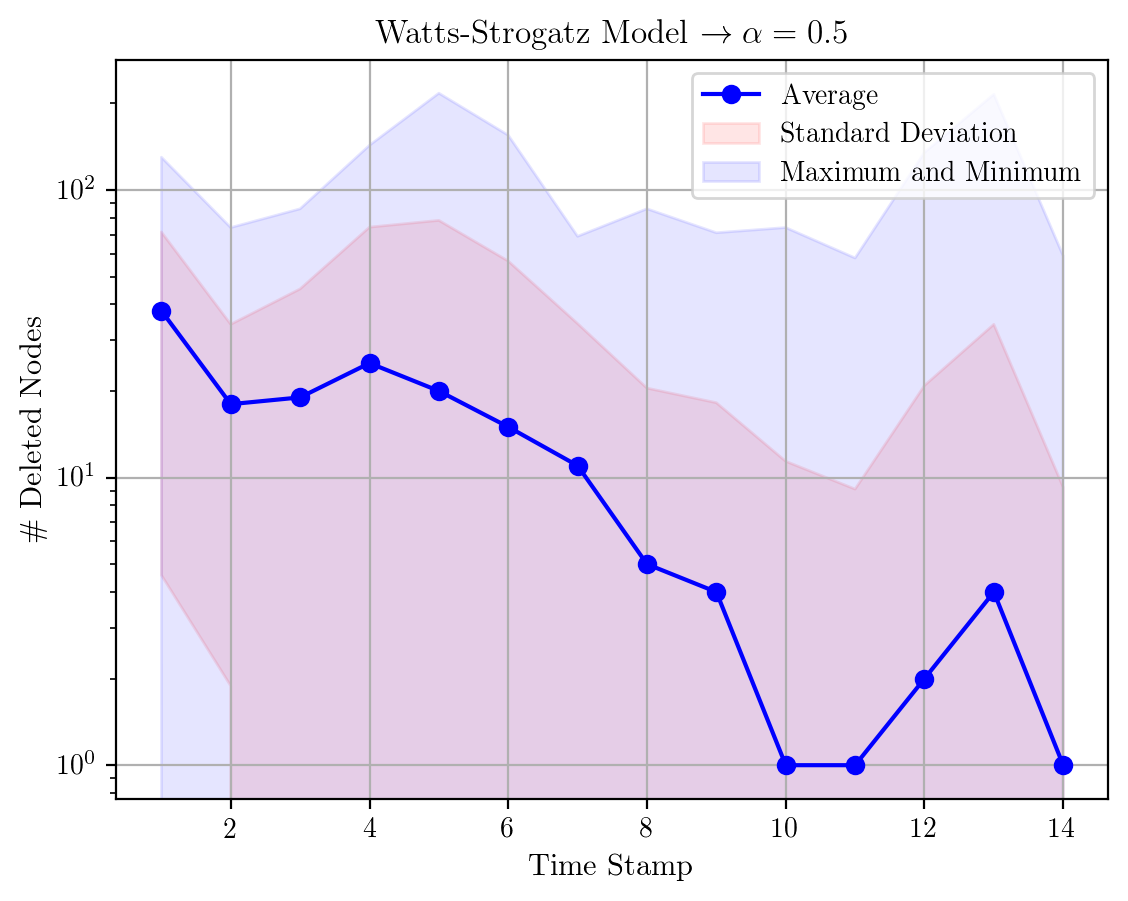
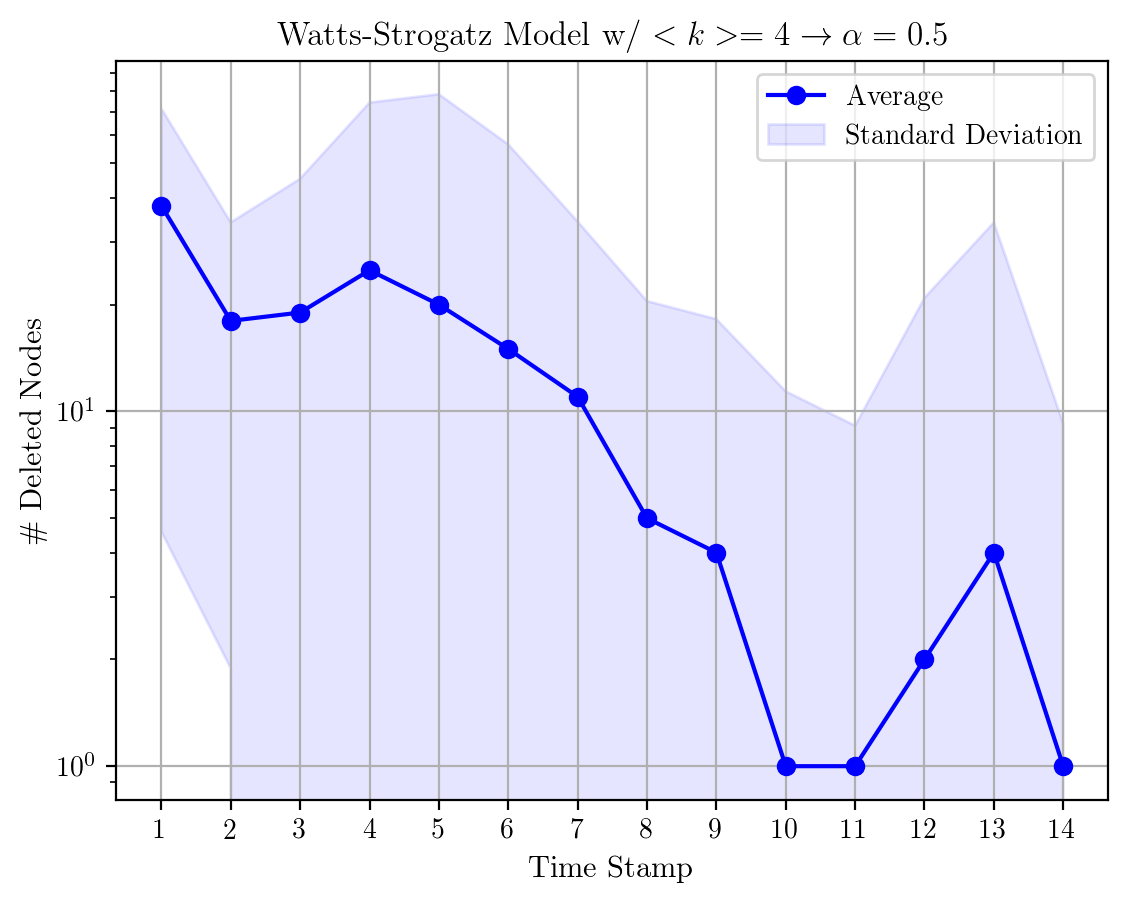
Iterations per alpha

diff --git a/Plots/iterations.py b/Plots/iterations.py
@@ -1,0 +1,220 @@
+import networkx as nx
+import numpy as np
+import matplotlib.pyplot as plt
+
+model = 0
+while True:
+	try:
+		model = int(input("""Choose a model:
+		0 - Barabasi Albert Model w/ <k> = 4;
+		1 - DMS Minimal Model w/ <k> = 4;
+		2 - Power Law Model w/ <k> = 2;
+		3 - Power Law Model w/ <k> = 4;
+		4 - Random Graph Model w/ <k> = 4;
+		5 - Watts-Strogatz Model w/ <k> = 4;
+		6 - Power Grid Network;
+		7 - Internet Network):\n>>> """))       
+	except ValueError:
+		print("Please an integer between 0 and 7:")
+		continue
+	else:
+		if model >=0 or model <=7:
+			break
+		else:
+			continue
+
+if model == 0:
+	folder = "Data/BA/"
+elif model == 1:
+	folder = "Data/DMS/"
+elif model == 2:
+	folder = "Data/PL2/"
+elif model == 3:
+	folder = "Data/PL4/"
+elif model == 4:
+	folder = "Data/RAND/"
+elif model == 5:
+	folder = "Data/WS/"
+elif model == 6:
+	folder = "Data/PG/"
+else:
+	folder = "Data/INT/"
+	
+file = "data_0.txt"
+
+with open(folder + file) as f:
+	lines = f.read().splitlines()
+
+if model == 2:
+	N = [int(i) for i in lines[0].split()[1:]]
+else:
+	N = [int(lines[0].split()[1]) for i in range(10)]
+
+N_GRAPHS = int(lines[1].split()[1])
+IT = int(lines[2].split()[1])
+criteria = int(lines[3].split()[1])
+alphas = lines[4].split()[1:12]
+
+a_it = np.zeros(len(alphas), dtype=int)
+iterations_avg_rand = np.zeros(len(alphas))
+iterations_var_rand = np.zeros(len(alphas))
+iterations_rand = np.zeros((len(alphas), IT*N_GRAPHS))
+
+l_it = 0
+for net in range(N_GRAPHS):
+	for a in range(len(alphas)):
+		for it in range(IT):
+			iterations_rand[a][a_it[a]] = float(lines[6+6*l_it].split()[1])
+			l_it += 1
+			a_it[a] += 1
+
+for a in range(len(alphas)):
+	iterations_avg_rand[a] = np.mean(iterations_rand[a])
+	iterations_var_rand[a] = np.var(iterations_rand[a])
+
+file = "data_1.txt"
+
+with open(folder + file) as f:
+	lines = f.read().splitlines()
+
+if model == 2:
+	N = [int(i) for i in lines[0].split()[1:]]
+else:
+	N = [int(lines[0].split()[1]) for i in range(10)]
+
+N_GRAPHS = int(lines[1].split()[1])
+IT = int(lines[2].split()[1])
+criteria = int(lines[3].split()[1])
+alphas = lines[4].split()[1:12]
+
+a_it = np.zeros(len(alphas), dtype=int)
+iterations_avg_bc = np.zeros(len(alphas))
+iterations_var_bc = np.zeros(len(alphas))
+iterations_bc = np.zeros((len(alphas), IT*N_GRAPHS))
+
+l_it = 0
+for net in range(N_GRAPHS):
+	for a in range(len(alphas)):
+		for it in range(IT):
+			iterations_bc[a][a_it[a]] = float(lines[6+6*l_it].split()[1])
+			l_it += 1
+			a_it[a] += 1
+
+for a in range(len(alphas)):
+	iterations_avg_bc[a] = np.mean(iterations_bc[a])
+	iterations_var_bc[a] = np.var(iterations_bc[a])
+
+file = "data_2.txt"
+
+with open(folder + file) as f:
+	lines = f.read().splitlines()
+
+if model == 2:
+	N = [int(i) for i in lines[0].split()[1:]]
+else:
+	N = [int(lines[0].split()[1]) for i in range(10)]
+
+N_GRAPHS = int(lines[1].split()[1])
+IT = int(lines[2].split()[1])
+criteria = int(lines[3].split()[1])
+alphas = lines[4].split()[1:12]
+
+a_it = np.zeros(len(alphas), dtype=int)
+iterations_avg_dg = np.zeros(len(alphas))
+iterations_var_dg = np.zeros(len(alphas))
+iterations_dg = np.zeros((len(alphas), IT*N_GRAPHS))
+
+l_it = 0
+for net in range(N_GRAPHS):
+	for a in range(len(alphas)):
+		for it in range(IT):
+			iterations_dg[a][a_it[a]] = float(lines[6+6*l_it].split()[1])
+			l_it += 1
+			a_it[a] += 1
+
+for a in range(len(alphas)):
+	iterations_avg_dg[a] = np.mean(iterations_dg[a])
+	iterations_var_dg[a] = np.var(iterations_dg[a])
+
+file = "data_3.txt"
+
+with open(folder + file) as f:
+	lines = f.read().splitlines()
+
+if model == 2:
+	N = [int(i) for i in lines[0].split()[1:]]
+else:
+	N = [int(lines[0].split()[1]) for i in range(10)]
+
+N_GRAPHS = int(lines[1].split()[1])
+IT = int(lines[2].split()[1])
+criteria = int(lines[3].split()[1])
+alphas = lines[4].split()[1:12]
+
+a_it = np.zeros(len(alphas), dtype=int)
+iterations_avg_cl = np.zeros(len(alphas))
+iterations_var_cl = np.zeros(len(alphas))
+iterations_cl = np.zeros((len(alphas), IT*N_GRAPHS))
+
+l_it = 0
+for net in range(N_GRAPHS):
+	for a in range(len(alphas)):
+		for it in range(IT):
+			iterations_cl[a][a_it[a]] = float(lines[6+6*l_it].split()[1])
+			l_it += 1
+			a_it[a] += 1
+
+for a in range(len(alphas)):
+	iterations_avg_cl[a] = np.mean(iterations_cl[a])
+	iterations_var_cl[a] = np.var(iterations_cl[a])
+
+f1 = plt.figure()
+
+plt.rc('text', usetex=True)
+plt.rc('font', family='serif')
+
+plt.scatter(alphas, iterations_avg_rand, color="blue")
+plt.scatter(alphas, iterations_avg_bc, color="red")
+plt.scatter(alphas, iterations_avg_dg, color="green")
+plt.scatter(alphas, iterations_avg_cl, color="magenta")
+
+plt.plot(alphas, iterations_avg_rand, color="blue")
+plt.plot(alphas, iterations_avg_bc, color="red")
+plt.plot(alphas, iterations_avg_dg, color="green")
+plt.plot(alphas, iterations_avg_cl, color="magenta")
+
+plt.errorbar(alphas, iterations_avg_rand, np.sqrt(iterations_var_rand), fmt='bo', markersize=5, capsize=5, ecolor="black", label="Random")
+plt.errorbar(alphas, iterations_avg_bc, np.sqrt(iterations_var_bc), fmt='ro', markersize=5, capsize=5, ecolor="black", label="Betweeness Centrality")
+plt.errorbar(alphas, iterations_avg_dg, np.sqrt(iterations_var_dg), fmt='go', markersize=5, capsize=5, ecolor="black", label="Degree")
+plt.errorbar(alphas, iterations_avg_cl, np.sqrt(iterations_var_cl), fmt='mo', markersize=5, capsize=5, ecolor="black", label="Clustering Coefficient")
+
+# plt.xlim((-1.1, 11.1))
+# plt.ylim((-0.1, 1.1))
+
+if model == 0:
+	plt.title(r'Barabasi Albert Model w/ $<k> = 4$')
+elif model == 1:
+	plt.title(r'DMS Minimal Model w/ $<k> = 4$')
+elif model == 2:
+	plt.title(r'Power Law Model w/ $<k> = 2$')
+elif model == 3:
+	plt.title(r'Power Law Model w/ $<k> = 4$')
+elif model == 4:
+	plt.title(r'Random Graph Model w/ $<k> = 4$')
+elif model == 5:
+	plt.title(r'Watts-Strogatz Model w/ $<k> = 4$')
+elif model == 6:
+	plt.title(r'Power Grid Network')
+else:
+	plt.title(r'Internet Network')
+	
+plt.grid()
+plt.legend()
+plt.xlabel(r'\textbf{$\alpha$}', fontsize=11)
+plt.ylabel(r'\textbf{Final number of components in the network}', fontsize=11)
+
+plt.show()
+
+fig_name = "Plots/figures/iter_%i.png" % model
+
+f1.savefig(fig_name, bbox_inches='tight')

diff --git a/Plots/node_deletion.py b/Plots/node_deletion.py
@@ -2,6 +2,7 @@ import networkx as nx
 import matplotlib.pyplot as plt
 import numpy as np
 import matplotlib.pyplot as plt
+import math
 
 model = 0
 while True:
@@ -94,9 +95,9 @@ x = list(range(1, len(avg_del[curr_alpha])+1))
 
 plt.plot(x, avg_del[curr_alpha], color="blue", label="Average", marker='o')
 
-plt.fill_between(x, avg_del[curr_alpha]-std_del[curr_alpha], avg_del[curr_alpha]+std_del[curr_alpha], color="red", alpha=0.1, label='Standard Deviation')
+plt.fill_between(x, avg_del[curr_alpha]-std_del[curr_alpha], avg_del[curr_alpha]+std_del[curr_alpha], color="blue", alpha=0.1, label='Standard Deviation')
 
-plt.fill_between(x, min_del[curr_alpha], max_del[curr_alpha], color="blue", alpha=0.1, label='Maximum and Minimum')
+# plt.fill_between(x, min_del[curr_alpha], max_del[curr_alpha], color="blue", alpha=0.1, label='Maximum and Minimum')
 
 if model == 0:
 	plt.title(r'Barabási Albert Model w/ $<k> = 4 \rightarrow \alpha=0.2$')
@@ -114,6 +115,9 @@ elif model == 6:
 	plt.title(r'Power Grid Network $\rightarrow \alpha=0.2$')
 else:
 	plt.title(r'Internet Network $\rightarrow \alpha=0.2$')
+
+xint = range(min(x), math.ceil(max(x))+1)
+plt.xticks(xint)
 
 plt.yscale('log')
 plt.grid()
@@ -138,9 +142,9 @@ x = list(range(1, len(avg_del[curr_alpha])+1))
 
 plt.plot(x, avg_del[curr_alpha], color="blue", label="Average", marker='o')
 
-plt.fill_between(x, avg_del[curr_alpha]-std_del[curr_alpha], avg_del[curr_alpha]+std_del[curr_alpha], color="red", alpha=0.1, label='Standard Deviation')
+plt.fill_between(x, avg_del[curr_alpha]-std_del[curr_alpha], avg_del[curr_alpha]+std_del[curr_alpha], color="blue", alpha=0.1, label='Standard Deviation')
 
-plt.fill_between(x, min_del[curr_alpha], max_del[curr_alpha], color="blue", alpha=0.1, label='Maximum and Minimum')
+# plt.fill_between(x, min_del[curr_alpha], max_del[curr_alpha], color="blue", alpha=0.1, label='Maximum and Minimum')
 
 if model == 0:
 	plt.title(r'Barabási Albert Model w/ $<k> = 4 \rightarrow \alpha=0.5$')
@@ -158,6 +162,9 @@ elif model == 6:
 	plt.title(r'Power Grid Network $\rightarrow \alpha=0.5$')
 else:
 	plt.title(r'Internet Network $\rightarrow \alpha=0.5$')
+
+xint = range(min(x), math.ceil(max(x))+1)
+plt.xticks(xint)
 
 plt.yscale('log')
 plt.grid()
@@ -182,9 +189,9 @@ x = list(range(1, len(avg_del[curr_alpha])+1))
 
 plt.plot(x, avg_del[curr_alpha], color="blue", label="Average", marker='o')
 
-plt.fill_between(x, avg_del[curr_alpha]-std_del[curr_alpha], avg_del[curr_alpha]+std_del[curr_alpha], color="red", alpha=0.1, label='Standard Deviation')
+plt.fill_between(x, avg_del[curr_alpha]-std_del[curr_alpha], avg_del[curr_alpha]+std_del[curr_alpha], color="blue", alpha=0.1, label='Standard Deviation')
 
-plt.fill_between(x, min_del[curr_alpha], max_del[curr_alpha], color="blue", alpha=0.1, label='Maximum and Minimum')
+# plt.fill_between(x, min_del[curr_alpha], max_del[curr_alpha], color="blue", alpha=0.1, label='Maximum and Minimum')
 
 if model == 0:
 	plt.title(r'Barabási Albert Model w/ $<k> = 4 \rightarrow \alpha=0.7$')
@@ -202,6 +209,9 @@ elif model == 6:
 	plt.title(r'Power Grid Network $\rightarrow \alpha=0.7$')
 else:
 	plt.title(r'Internet Network $\rightarrow \alpha=0.7$')
+
+xint = range(min(x), math.ceil(max(x))+1)
+plt.xticks(xint)
 
 plt.yscale('log')
 plt.grid()
